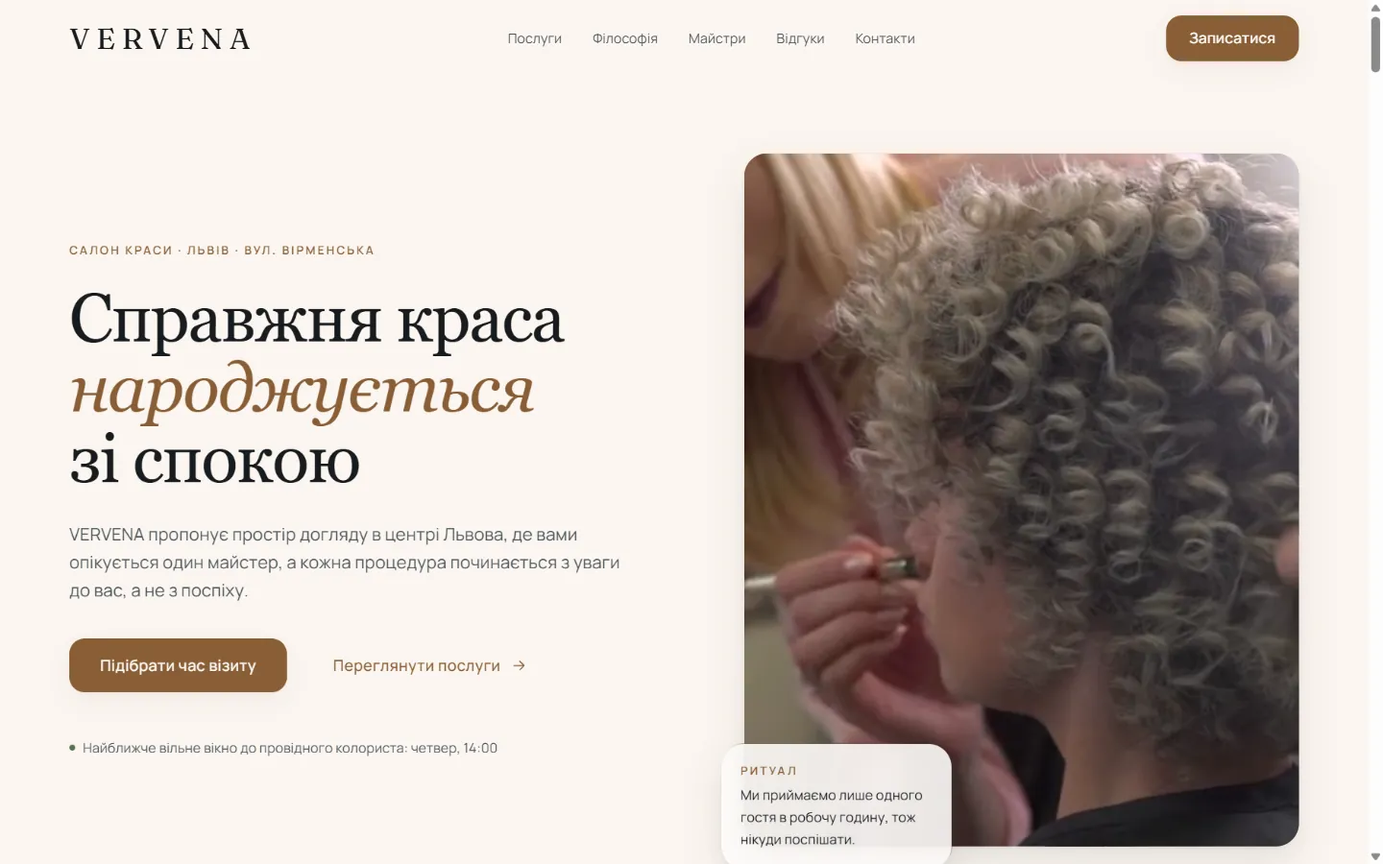
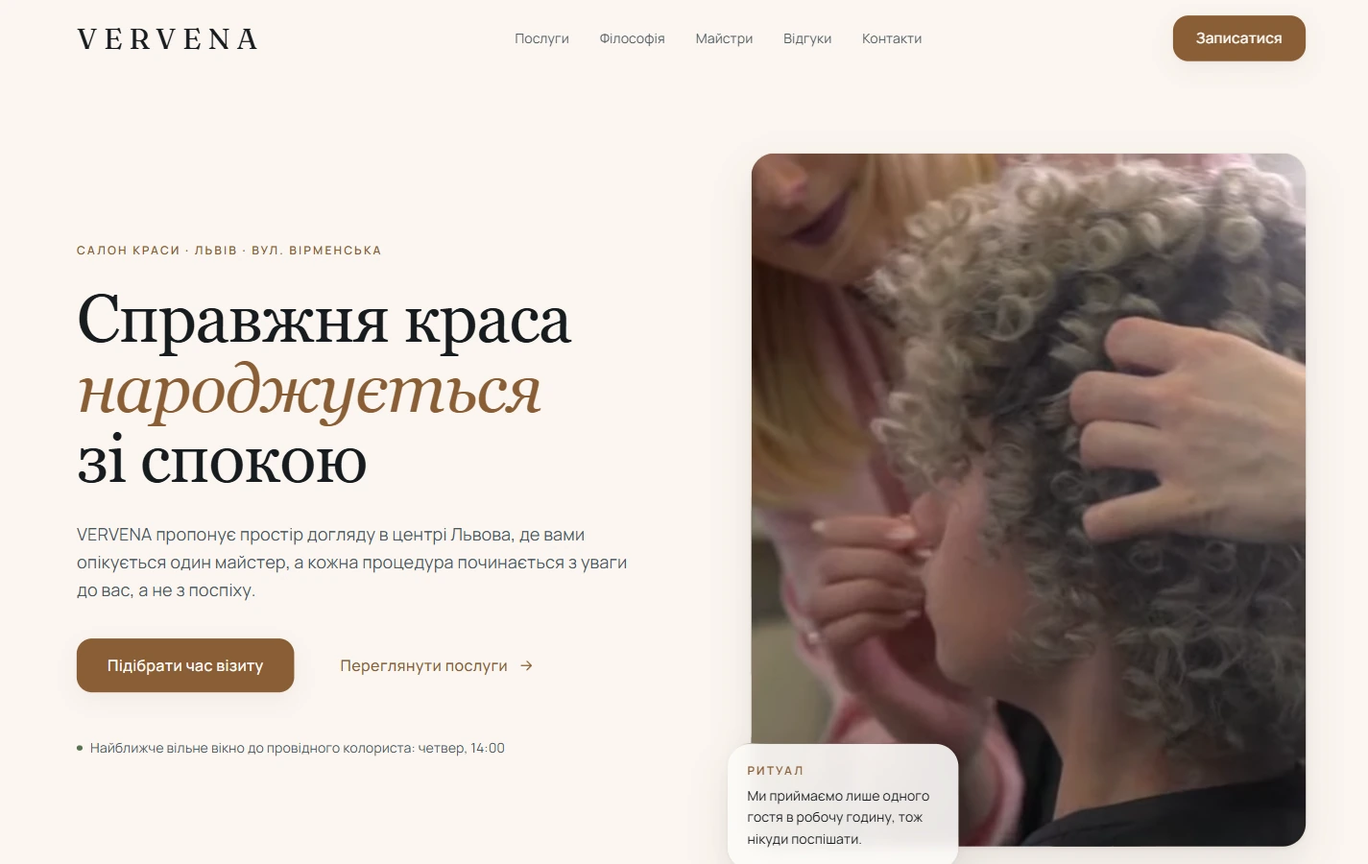
Vervena: мова бізнесу замість технічної, знімки чіткіші й нижче
- Заголовок більше не починається з того, що салону не існує: він про
  те, що клієнтка бачить ціну й майстра до дзвінка. Сам факт вигаданого
  закладу лишився плашкою й у тексті.
- Заміри, проблеми, рішення й компроміси переписані мовою власника
  бізнесу: замість «5 КБ JavaScript» — що це коштує в клієнтках.
- Правило про це додане в CLAUDE.md.
- Рамка з прокруткою знімка більше не стоїть на першому екрані жодної
  роботи: зверху легкий знімок головної, важкий — нижче й lazy.
- Якість знімків піднята (82/92 замість 58), знімок телефона знято на
  390 px замість 320 і зберігається jpeg — webp не тримає таку висоту.
- Прибрано порівняння мобільних знімків «було/стало»: власнику бізнесу
  воно нічого не каже.

diff --git a/src/content/roboty/vervena.md b/src/content/roboty/vervena.md
@@ -1,5 +1,5 @@
 ---
-title: Салон, якого немає, зроблений так, ніби він є
+title: Сайт салону краси, де ціну й майстра видно до дзвінка
 kind: Лендінг
 status: demo
 niche: Салон краси, Львів
@@ -7,133 +7,141 @@ resultUrl: https://ynkotp-webdev.github.io/Beauty-salon/
 date: 2026-08-20
 order: 0
 summary: >-
-  VERVENA — вигаданий салон краси у Львові. Замовника немає, тому й прикрас не
-  було за що ховати: сторінка важить 165 КБ, свого JavaScript у ній 5 КБ,
-  найбільший елемент з'являється за 0,36 с, а прайс із чотирнадцяти позицій
-  відкритий одразу. Це показ рівня, а не робота на здачу.
+  Ціни на чотирнадцять послуг лежать на видноті, кожен майстер підписаний іменем
+  і фото, заявка — за три кроки, а перший екран відкривається за 0,4 секунди.
+  Клієнтка отримує відповіді на свої питання до того, як наважиться подзвонити.
+  Салон вигаданий — робота справжня.
 after:
   desktop: ../../assets/roboty/vervena-desktop.webp
   mobile: ../../assets/roboty/vervena-mobile.webp
 scroll:
   desktop: ../../assets/roboty/vervena-scroll-desktop.webp
-  mobile: ../../assets/roboty/vervena-scroll-mobile.webp
+  mobile: ../../assets/roboty/vervena-scroll-mobile.jpg
 metrics:
-  - label: Вага сторінки без кінемаграфи
-    after: 165 КБ
-  - label: Мережевих запитів на першу візиту
-    after: "10"
-  - label: Свого JavaScript
-    after: 5 КБ
-  - label: Найбільший елемент на екрані
-    after: 0,36 с
-  - label: Зсув макета під час завантаження
-    after: 0,0001
-  - label: Горизонтальний зсув, 320–1536 px
-    after: 0 px
-  - label: Провали контрасту тексту
+  - label: Скільки клієнтка чекає перший екран
+    after: 0,4 секунди
+  - label: Цін на послуги видно без дзвінка
+    after: усі 14
+  - label: Майстрів з іменем, фото й напрямом
+    after: усі 5
+  - label: Кроків від «цікавить» до заявки
+    after: "3"
+  - label: Сторінка стрибає, поки вантажиться
+    after: ні
+  - label: Ламається на вузькому екрані телефона
+    after: ні
+  - label: Місць, де текст важко прочитати
     after: 0 із 213
-  - label: Полів форми без підпису
+  - label: Полів форми без зрозумілого підпису
     after: 0 із 21
-  - label: Пропущених рівнів заголовків
-    after: 0 із 27
-  - label: Зображення у webp / з lazy-loading
-    after: 13 із 13 і 12 із 13
-  - label: Тегів header / footer / h1
-    after: 1 і 1 і 1
-  - label: Ваги сторінки припадає на шрифти
-    after: 108 КБ зі 165
+  - label: Вигаданих цифр і рейтингів
+    after: жодного
+  - label: Купованих стокових фото
+    after: жодного
+  - label: Працює з вимкненою анімацією й на слабкому інтернеті
+    after: так
 problems:
   - title: «Ціни уточнюйте в дірект»
     detail: >-
-      Найчастіша причина, чому людина закриває сайт салону: сума невідома, і
-      питати незручно. Тут чотирнадцять позицій із ціною «від» лежать просто на
-      сторінці, з поясненням, від чого сума росте.
+      Жінка, яка не знає суми, найчастіше не пише — вона йде до сусіднього
+      салону, де ціна написана. Тут чотирнадцять позицій лежать просто на
+      сторінці, з поясненням, від чого сума росте. Заперечення знімається до
+      першого контакту, а не в переписці.
   - title: Майстри без імен і облич
     detail: >-
-      Записуються не в салон, а до людини. П'ятеро майстрів підписані іменем,
-      фото, напрямом і власним переліком робіт — до запису, а не після.
-  - title: Стокові усмішки замість приміщення
+      Записуються не в салон, а до людини. Коли клієнтка обрала майстра очима —
+      прочитала, чим він займається, побачила його роботи — вона рідше
+      передумує й рідше скасовує візит. П'ятеро майстрів підписані іменем,
+      фото й напрямом.
+  - title: Стокові усмішки замість самого салону
     detail: >-
-      Уся зйомка — одна серія в одному світлі: інтер'єр, руки, робота,
-      результат. Жодної купованої фотографії з бази.
+      За купованим фото не видно, куди людина йде. Уся зйомка тут — одна серія
+      в одному світлі: приміщення, руки, робота, результат. Клієнтка бачить
+      місце ще вдома й приходить без тривоги.
   - title: «500+ задоволених клієнтів»
     detail: >-
-      Роздуті цифри й вигадані рейтинги — найдешевший спосіб втратити довіру.
-      На сторінці немає жодного такого числа, а в мікророзмітці немає
-      aggregateRating, бо відгуки демонстраційні.
+      Роздуті цифри читаються як обман саме тоді, коли довіра потрібна
+      найбільше. На сторінці немає жодного такого числа й жодного вигаданого
+      рейтингу — і це працює краще, ніж намальована п'ятірка.
   - title: Запис лише дзвінком у робочі години
     detail: >-
-      Форма з трьох кроків: напрям → майстер → час і контакти. Помилка
-      підписується текстом та іконкою, а не самим лише кольором, фокус
-      переноситься без стрибка сторінки.
+      Частина клієнток обирає салон увечері й дзвонити не хоче взагалі.
+      Заявка тут збирається за три кроки: напрям, майстер, зручний час.
+      Помилку в полі видно словами, а не самим лише червоним кольором.
 decisions:
-  - title: Кінемаграфа, яка нічого не коштує до першого екрана
+  - title: Перший екран не змушує чекати
     detail: >-
-      Відео в героїні має preload="none" і адреси в data-src: файл не існує для
-      браузера, доки модуль не ввімкне його — після події load, на першому
-      вільному такті. За prefers-reduced-motion, Save-Data чи 2G він не
-      вмикається взагалі, і лишається нерухомий кадр.
-  - title: Найбільший елемент — текст, а не картинка
-    detail: >-
-      Перший екран будується на заголовку й абзаці, тому найбільший елемент
-      з'являється за 0,36 с і не залежить від того, як швидко приїде фото.
-      Фотографія праворуч має зарезервоване місце, тож зсув макета — 0,0001.
-  - title: Прокрутка-поява як надбудова, а не умова
-    detail: >-
-      Блоки ховаються лише після того, як JavaScript сам поставить прапорець на
-      сторінці. Вимкнений чи зламаний скрипт означає просто сторінку без
-      анімації — не порожню сторінку.
+      Пропозиція з'являється за 0,4 секунди й не стрибає, поки вантажаться
+      фотографії. Клієнтка на поганому мобільному інтернеті бачить текст і
+      кнопку запису, а не білий екран — саме на цих перших секундах людина
+      вирішує, лишатися чи закрити.
   - title: Ціна відкрита разом із причиною
     detail: >-
-      Поруч із «від 750 ₴» стоїть, що входить і чому сума росте. Прозора ціна
-      без пояснення викликає те саме заперечення, що й прихована.
-  - title: Один майстер на годину як обіцянка, а не гасло
+      Поруч із «від 750 ₴» написано, що входить і від чого сума росте. Просто
+      відкрита ціна без пояснення викликає те саме заперечення, що й
+      прихована: «а мені порахують інакше».
+  - title: Відео в шапці не заважає першому екрану
     detail: >-
-      Уся сторінка тримає один тон: без таймерів, без «встигніть сьогодні», без
-      червоних плашок. Спокій продає цій ніші краще за терміновість.
-  - title: Розмітка описує заклад, а не сторінку
+      Ролик вмикається лише після того, як сторінка вже показалася повністю.
+      Якщо телефон економить трафік, зв'язок повільний або людина просила
+      менше руху на екрані — відео не вантажиться взагалі, лишається
+      нерухомий кадр.
+  - title: Спокій замість таймерів
     detail: >-
-      BeautySalon з адресою, координатами, графіком роботи й діапазоном цін.
-      Того, чого немає насправді — рейтингу й відгуків, — у розмітці теж немає.
+      Жодного «встигніть сьогодні», жодних червоних плашок і зворотного
+      відліку. У цій ніші тиск відлякує саме тих клієнток, які платять більше
+      й повертаються.
+  - title: Салон видно в картах і локальному пошуку
+    detail: >-
+      Адреса, години роботи, район і діапазон цін віддані пошуковим системам
+      окремо від тексту сторінки. Це те, з чого Google складає картку закладу,
+      коли людина шукає «салон краси поруч».
+  - title: Сайт не ламається, коли щось не спрацювало
+    detail: >-
+      Вимкнена анімація, повільний зв'язок, старий телефон — сторінка лишається
+      читабельною і робочою. Клієнтка не бачить порожнього екрана через те, що
+      в неї «щось не завантажилось».
 tradeoffs:
   - >-
-    Заголовки українською намальовані не тим шрифтом, який задумувався. Fraunces
-    не має кирилиці, тож усі великі написи показує Georgia — при цьому два його
-    файли на 69 КБ браузер таки завантажує. Це найбільший дефект сторінки:
-    третина ваги йде на шрифт, яким не написано жодного заголовка.
+    Шрифт заголовків не має українських літер, тож усі великі написи браузер
+    підміняє запасним. Сайт виглядає дешевше, ніж задумувався, — і це видно
+    на першому екрані, тобто на найдорожчих секундах. Лікується заміною шрифта.
   - >-
-    Шрифти — 108 КБ зі 165 КБ усієї сторінки. Навіть після заміни Fraunces на
-    кириличний набір тут є що підрізати.
+    Відео в шапці на комп'ютері доважує близько мегабайта вже після того, як
+    сторінка показалася. На швидкість це не впливає, на мобільний трафік
+    клієнтки — впливає.
   - >-
-    На комп'ютері кінемаграфа доважує 868 КБ після завантаження сторінки.
-    Показник швидкості вона не псує, а трафік — так.
+    Десять посилань «Записатися до…» замалі, щоб упевнено влучити пальцем.
+    Кожен промах — це шанс, що людина роздратується й піде.
   - >-
-    Десять посилань «Записатися до…» мають висоту 20 px замість мінімальних 24.
-    На телефоні в них важко влучити пальцем.
+    На телефоні сторінка дуже довга: до форми запису треба прогорнути близько
+    двадцяти екранів. Частину блоків варто згорнути, а форму підняти вище.
   - >-
-    На телефоні сторінка — 22,8 екрана. Для односторінкового сайту це довго:
-    частину блоків варто згортати.
+    Google не бачить цін окремими позиціями, хоча на сторінці їх чотирнадцять.
+    Салон не з'явиться у видачі з ціною — а конкурент, у якого це налаштовано,
+    з'явиться.
   - >-
-    Немає sitemap.xml і robots.txt, а canonical стоїть без кінцевого слеша.
-    Для демонстрації байдуже, для запуску — ні.
+    Пошуковим системам не залишено найпростіших службових підказок про сайт.
+    Для показу неважливо, для салону, який хоче клієнтів із пошуку, —
+    обов'язково.
   - >-
-    У мікророзмітці немає жодної послуги з ціною, хоча на сторінці їх
-    чотирнадцять. Локальна видача цього не побачить.
+    Форма запису нічого нікуди не надсилає: це демонстрація. На робочому сайті
+    вона підключається до пошти, Telegram або CRM за пів дня.
   - >-
-    Форма запису не має бекенда: заявка нікуди не йде. Це навмисно —
-    підключення до пошти чи CRM робиться на бойовому проєкті.
+    Салон вигаданий: назва, адреса, ціни, майстри й відгуки демонстраційні.
+    Сам сайт каже про це у підвалі, а не дрібним шрифтом у кутку.
 ---
 
-Це вигаданий заклад. Салону VERVENA на вул. Вірменській не існує, ціни, майстри
-й відгуки написані для показу, і сам сайт каже про це у підвалі, а не дрібним
-шрифтом десь у кутку.
+Замовника в цієї роботи немає — а отже, немає й приводу сховати слабке місце за
+«клієнт так захотів». Усе, що на сторінці стоїть, стоїть тому, що я вважаю це
+правильним, і за все на ній відповідаю сам.
 
-Сенс такої роботи простий. Коли замовника немає, немає й приводу сховати слабке
-місце за «клієнт так захотів». Усе, що на сторінці є, стоїть там тому, що я
-вважаю це правильним — і тому за все на ній відповідаю сам.
+Сенс сторінки один: зняти з клієнтки всі питання, через які вона зазвичай не
+дзвонить. Скільки це коштує. Хто саме мене прийме. Як там усередині. Чи не
+почнуть тиснути. Кожен блок закриває одне таке питання — і тільки тому він там є.
 
-Заміри знімалися з живої сторінки на мобільному екрані 390 px, тими самими
-перевірками, якими я розбираю чужі сайти. Вони ж знайшли в ній і дірки:
-головний шрифт не вміє кирилиці, шрифти з'їдають дві третини ваги, десяток
-посилань замалі для пальця. Усе це перелічене нижче окремо й не виправлене —
-цей сайт лишається таким, яким був знятий.
+Заміри знімалися з живої сторінки на екрані телефона, тими самими перевірками,
+якими я розбираю чужі сайти. Вони ж показали, де сторінка програє: заголовки
+показуються не тим шрифтом, посилання замалі для пальця, до форми запису надто
+довго гортати. Усе це перелічене нижче окремо й навмисно не виправлене —
+сторінка лишається такою, якою її знято.

diff --git a/CLAUDE.md b/CLAUDE.md
@@ -1,0 +1,129 @@
+# CLAUDE.md
+
+This file provides guidance to Claude Code (claude.ai/code) when working with code in this repository.
+
+## Команди
+
+```
+npm run dev       # astro dev — локально на http://localhost:4321/YonkaAgency
+npm run build     # статична збірка в dist/
+npm run preview   # прев'ю зібраного
+```
+
+Тестів і лінтера немає. Перевірка = `npm run build` (падає на помилках схеми контенту й
+типів) + очима в браузері. Деплой автоматичний: push у `main` → `.github/workflows/deploy.yml`
+(`withastro/action`) → GitHub Pages.
+
+## Що це
+
+Комерційний сайт веб-студії однієї людини (Остап Йонка, Львів). Astro 5 + Tailwind 4
+(через `@tailwindcss/vite`, без `astro add tailwind`), статика на GitHub Pages,
+без бекенду й без JS-фреймворків. Контакт — прямі `tel:` і Telegram, форми немає.
+
+Сайт українською. Російська версія (`/ru/`) передбачена в `Base.astro`, але **не збудована** —
+перемикач мов і `hreflang="ru"` навмисно прибрані, щоб не вести в 404.
+
+## Базовий шлях — головна пастка
+
+`astro.config.mjs` задає `base: '/YonkaAgency'`. Усі внутрішні посилання будуються від
+`import.meta.env.BASE_URL.replace(/\/$/, '')`. Ніколи не писати `href="/roboty/"` — буде 404.
+
+CSS не бачить `BASE_URL`, тому в [global.css](src/styles/global.css) шляхи до шрифтів
+захардкоджені як `/YonkaAgency/fonts/…` (позначено `ponytail:` коментарем). При переїзді на
+власний домен міняти обидва місця: `base` в конфізі й `@font-face` у CSS.
+
+## Структура
+
+- [src/layouts/Base.astro](src/layouts/Base.astro) — єдиний layout: `<head>`, JSON-LD
+  `ProfessionalService`, шапка, підвал, i18n через проп `lang`. Приймає `title`,
+  `description`, `path` (для canonical/og — **без** префікса base, він додається всередині).
+- [src/pages/index.astro](src/pages/index.astro) — головна, весь контент (тарифи, FAQ,
+  «що входить») лежить масивами у frontmatter самої сторінки.
+- [src/pages/roboty/](src/pages/roboty/) — список і сторінка роботи `[id].astro`
+  (`getStaticPaths` з колекції).
+- [src/components/](src/components/) — лише два компоненти, обидва сигнатурні:
+  `RouteCompare.astro` (SVG-схема двох маршрутів на головній) і `SiteScroll.astro`
+  (рамка з прокруткою знімка сайту; перемикач десктоп/телефон зроблено на двох radio +
+  сусідніх селекторах, **без скрипта** — не переписувати на JS).
+
+## Колекція `roboty`
+
+Схема — [src/content.config.ts](src/content.config.ts), файли — `src/content/roboty/*.md`,
+картинки — `src/assets/roboty/*.webp` (оптимізує `astro:assets`). Додати роботу = додати
+один `.md`.
+
+Схема навмисно жорстка, і це змістове, а не технічне обмеження:
+
+- `status`: `concept` | `draft` | `demo` | `client`. Реальних клієнтів поки немає —
+  `client` не використовувати, поки замовлення справді не здане.
+- `.refine()` забороняє `before` без `sourceUrl`: знімок «було» мусить вести на реальний
+  чинний сайт, інакше це вигадка.
+- `metrics` обов'язкові — саме заміри, а не картинка, є доказом рівня. `before` в метриці
+  необов'язковий (для робіт з нуля порівнювати нема з чим).
+- `tradeoffs` — те, чого робота не закриває. Блок чесності на сторінці; не прибирати.
+
+## Дизайн-система
+
+Повний опис — [DESIGN.md](DESIGN.md), обов'язкові заборони — [research/26-anti-slop-brief.md](research/26-anti-slop-brief.md)
+(binding). Коротко, бо це порушується найчастіше:
+
+- Світ «схема маршруту»: папір `#f6f6f4`, чорнило `#14121a`, фіолетовий `route #5b21b6`,
+  бліда лінія `detour`. Токени в `@theme` у [global.css](src/styles/global.css).
+- **Ніяких сіток однакових карток**, ніяких тіней, скла, градієнтів. Глибина — тільки
+  тон (`paper` → `paper-deep` → `route-deep`), лінія і повна інверсія секції.
+- Дефолти Tailwind перевизначені навмисно: не повертати `rounded-lg`, `shadow-md`,
+  `max-w-7xl`, `container`. Радіусів рівно два: `3px` (плашка) і `999px` (вузол схеми).
+- Немає структури Hero → Features → Testimonials → CTA і немає кікера над заголовком.
+  Нова секція збирається з чотирьох іменованих пристроїв (DESIGN.md §Components),
+  а не з нових карток.
+- Geologica — голос, JetBrains Mono (`.notation`) — тільки заміри й підписи схеми.
+
+## Жорсткі вимоги, які не можна спрощувати
+
+Доступність тут — частина продажу (дослідження показало, що конкуренти її провалюють),
+тому: контраст ≥ 4,5:1, видимий фокус-ринг (`outline: 2px solid route` — знімати
+заборонено), інтерактив ≥ 44×44 px і кнопки 52px заввишки, зум не блокувати,
+рівно один `header`/`main`/`footer`/`h1`.
+
+Бюджет: мобільний LCP ≤ 2,5 с, вага сторінки ≤ 1500 КБ. Увесь рух — усередині
+`@media (prefers-reduced-motion: no-preference)`, геометрія SVG повна вже в розмітці
+(схема мусить бути на місці при вимкненій анімації, друку й у t=0).
+
+## Правда в текстах
+
+Клієнтів, відгуків, рейтингів і кейсів з результатами клієнта **немає** — вигадувати
+заборонено (див. [PRODUCT.md](PRODUCT.md) §Evidence on Hand). Формулювання «проєкти, які
+ми реалізували для наших клієнтів» заборонені. Обіцяти можна лише те, що виконується:
+строк, фіксовану суму в договорі, прямий контакт. Підтримки після запуску немає — так
+і написано на сайті.
+
+## Мова сайту — бізнесова, не інженерна
+
+Читач сайту — власник салону, клініки, магазину. Він не купує мілісекунди й
+кілобайти, він купує заявки. Тому в текстах, які він бачить (сторінки робіт,
+заміри, головна), технічний жаргон заборонений: без «JavaScript», «КБ», «LCP»,
+«CLS», «lazy-loading», «мікророзмітки», «canonical», «тегів header/footer»,
+назв технологій і показників, які самі по собі нічого йому не кажуть.
+
+Кожен технічний факт перекладається ланцюжком **що відбувається → що бачить
+відвідувач → що це коштує бізнесу → як це виправити**:
+
+- ❌ «Багато JavaScript, через що росте обсяг завантаження».
+- ✅ «Сторінка вантажиться довше, і клієнтка закриває її, не побачивши цін».
+
+Технічний факт лишається в тексті лише тоді, коли він доводить конкретну втрату.
+Не доводить — прибрати. Питання до кожного рядка: **чому власнику бізнесу це має
+бути важливо?**
+
+Це стосується й `metrics` у колекції `roboty`: підпис заміру формулюється
+людською мовою («Скільки клієнтка чекає перший екран»), а не назвою метрики
+(«LCP»). Заміри лишаються справжніми — змінюється тільки те, як вони названі.
+
+Внутрішня документація (`CLAUDE.md`, `DESIGN.md`, коментарі в коді) — навпаки,
+технічна, і спрощувати її не треба.
+
+## Документи
+
+`PRODUCT.md` — позиціонування, аудиторія, ціни, що є і чого немає. `DESIGN.md` — система.
+`research/` — 27 документів дослідження 11 конкурентів, на які спираються рішення;
+`CONTEXT.MD`, `CRITERIES.MD`, `HANDOFF.md` — вхідне ТЗ і передача дослідження, архівні.
